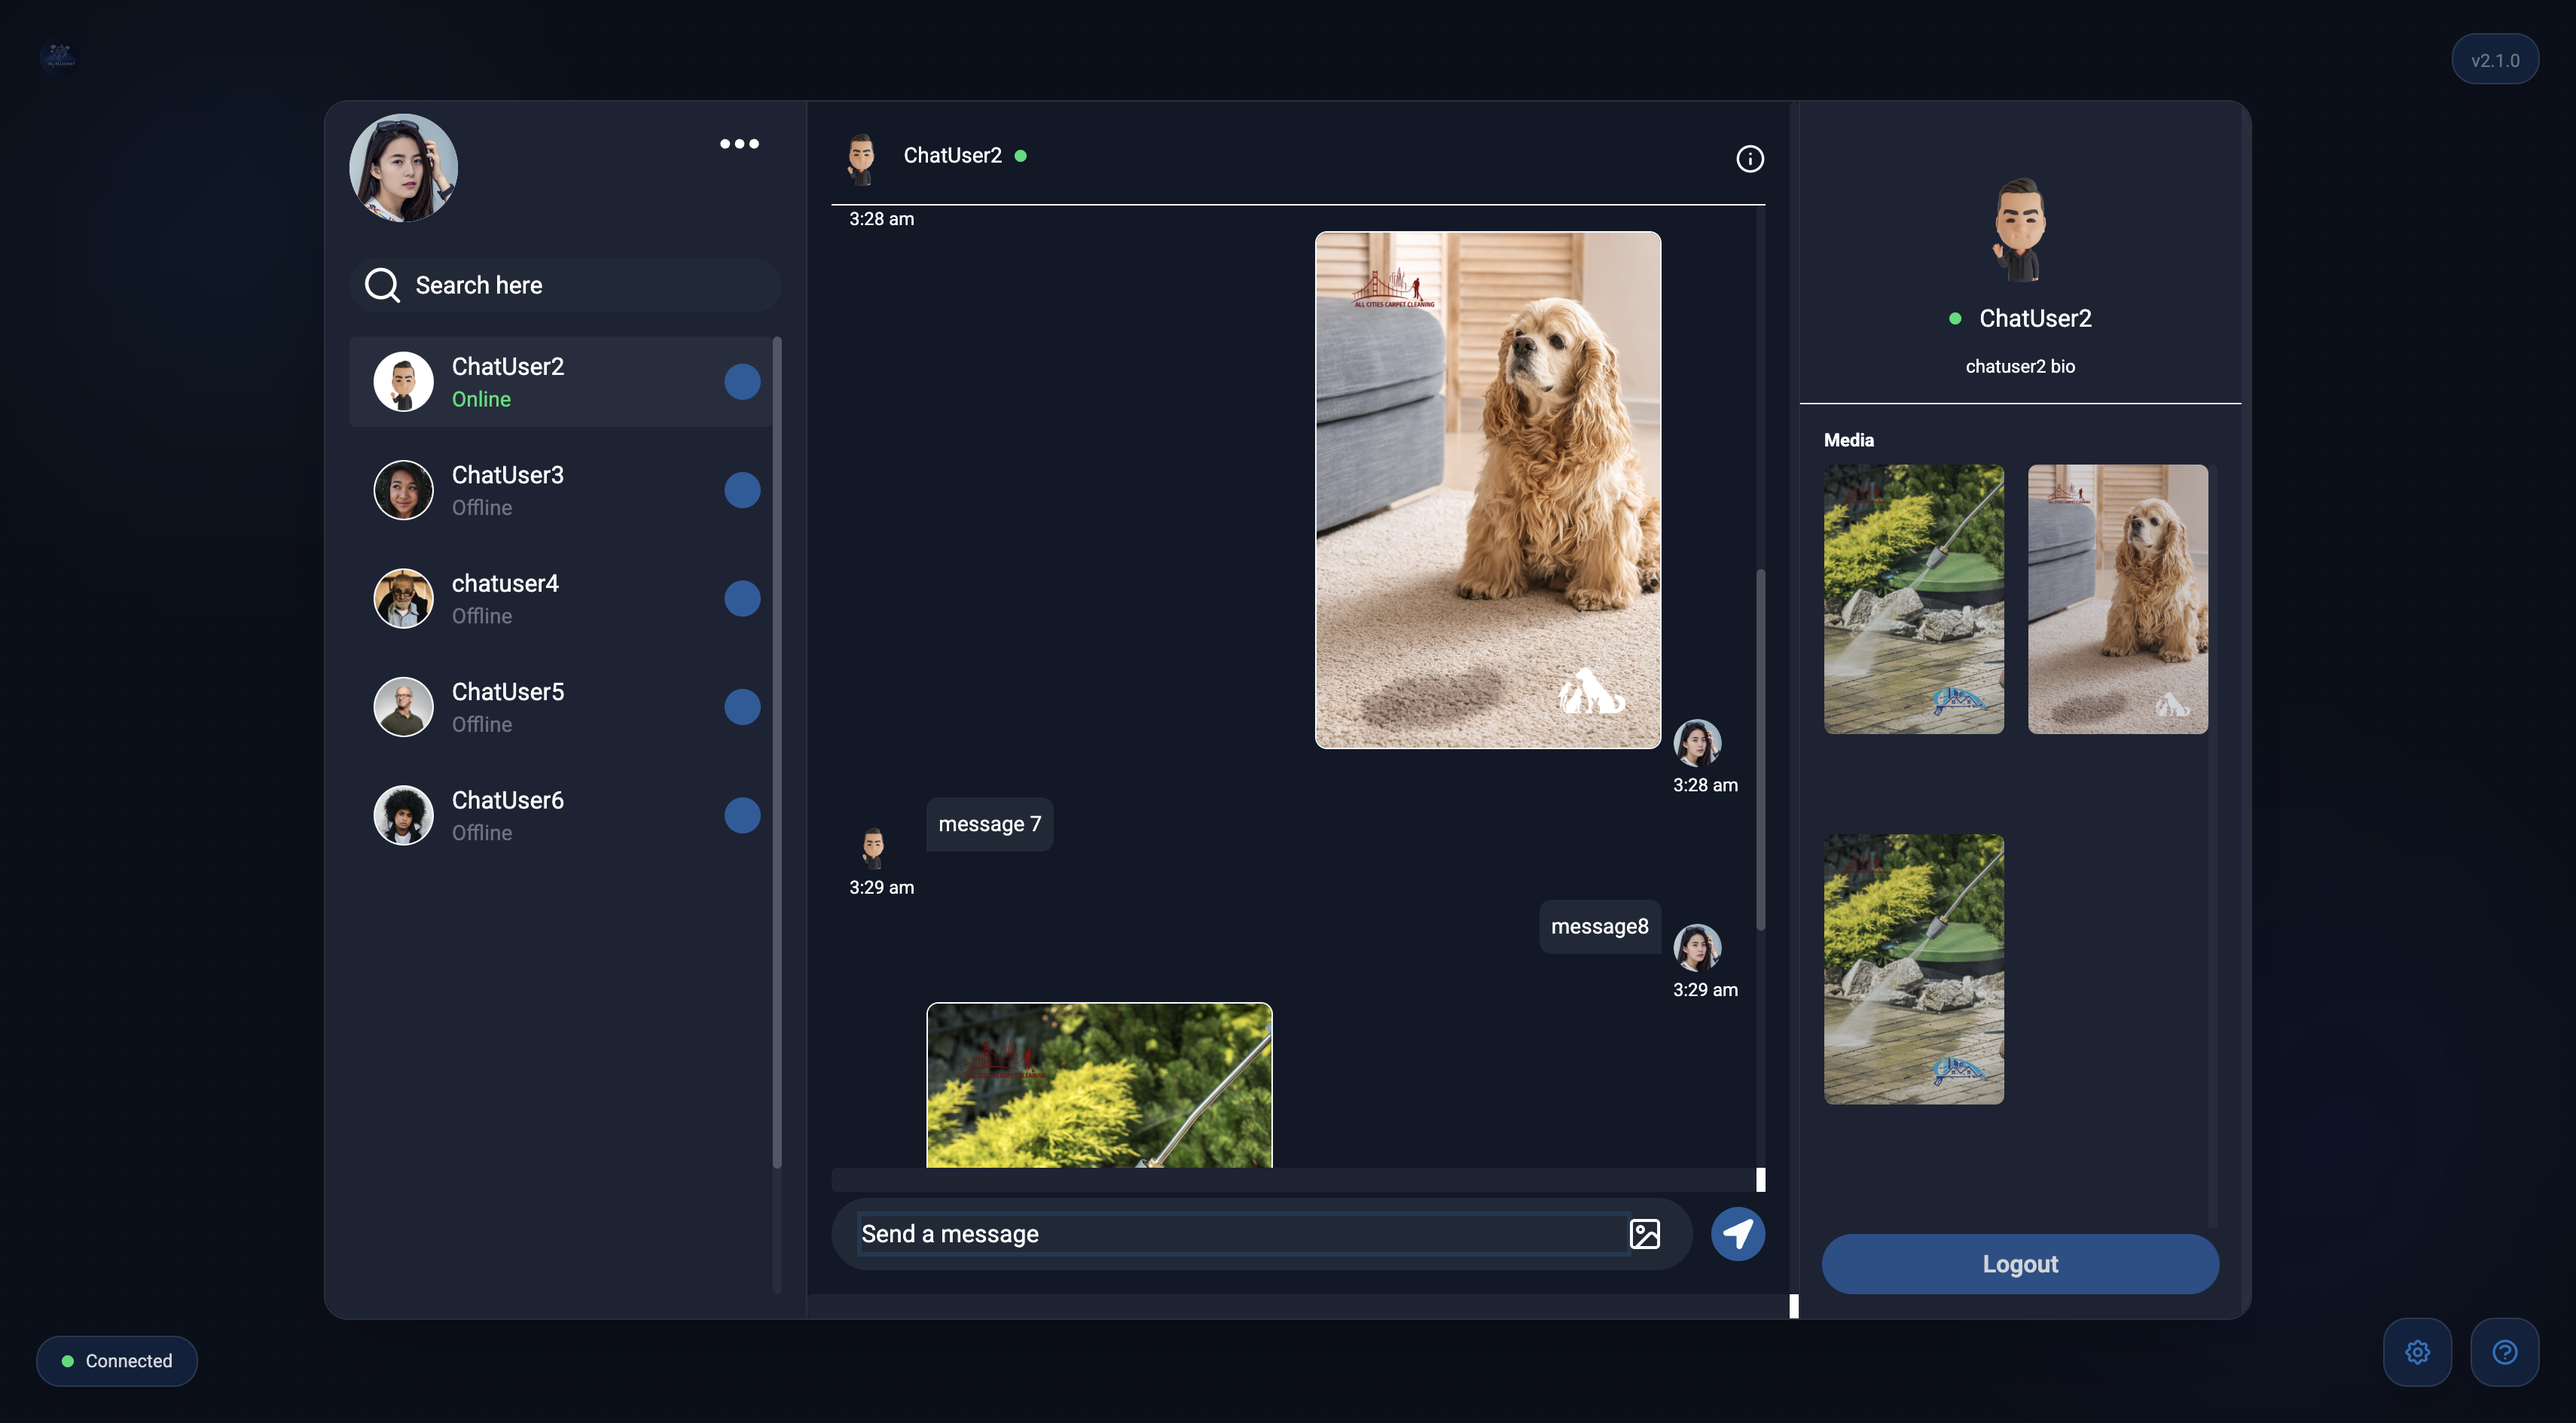
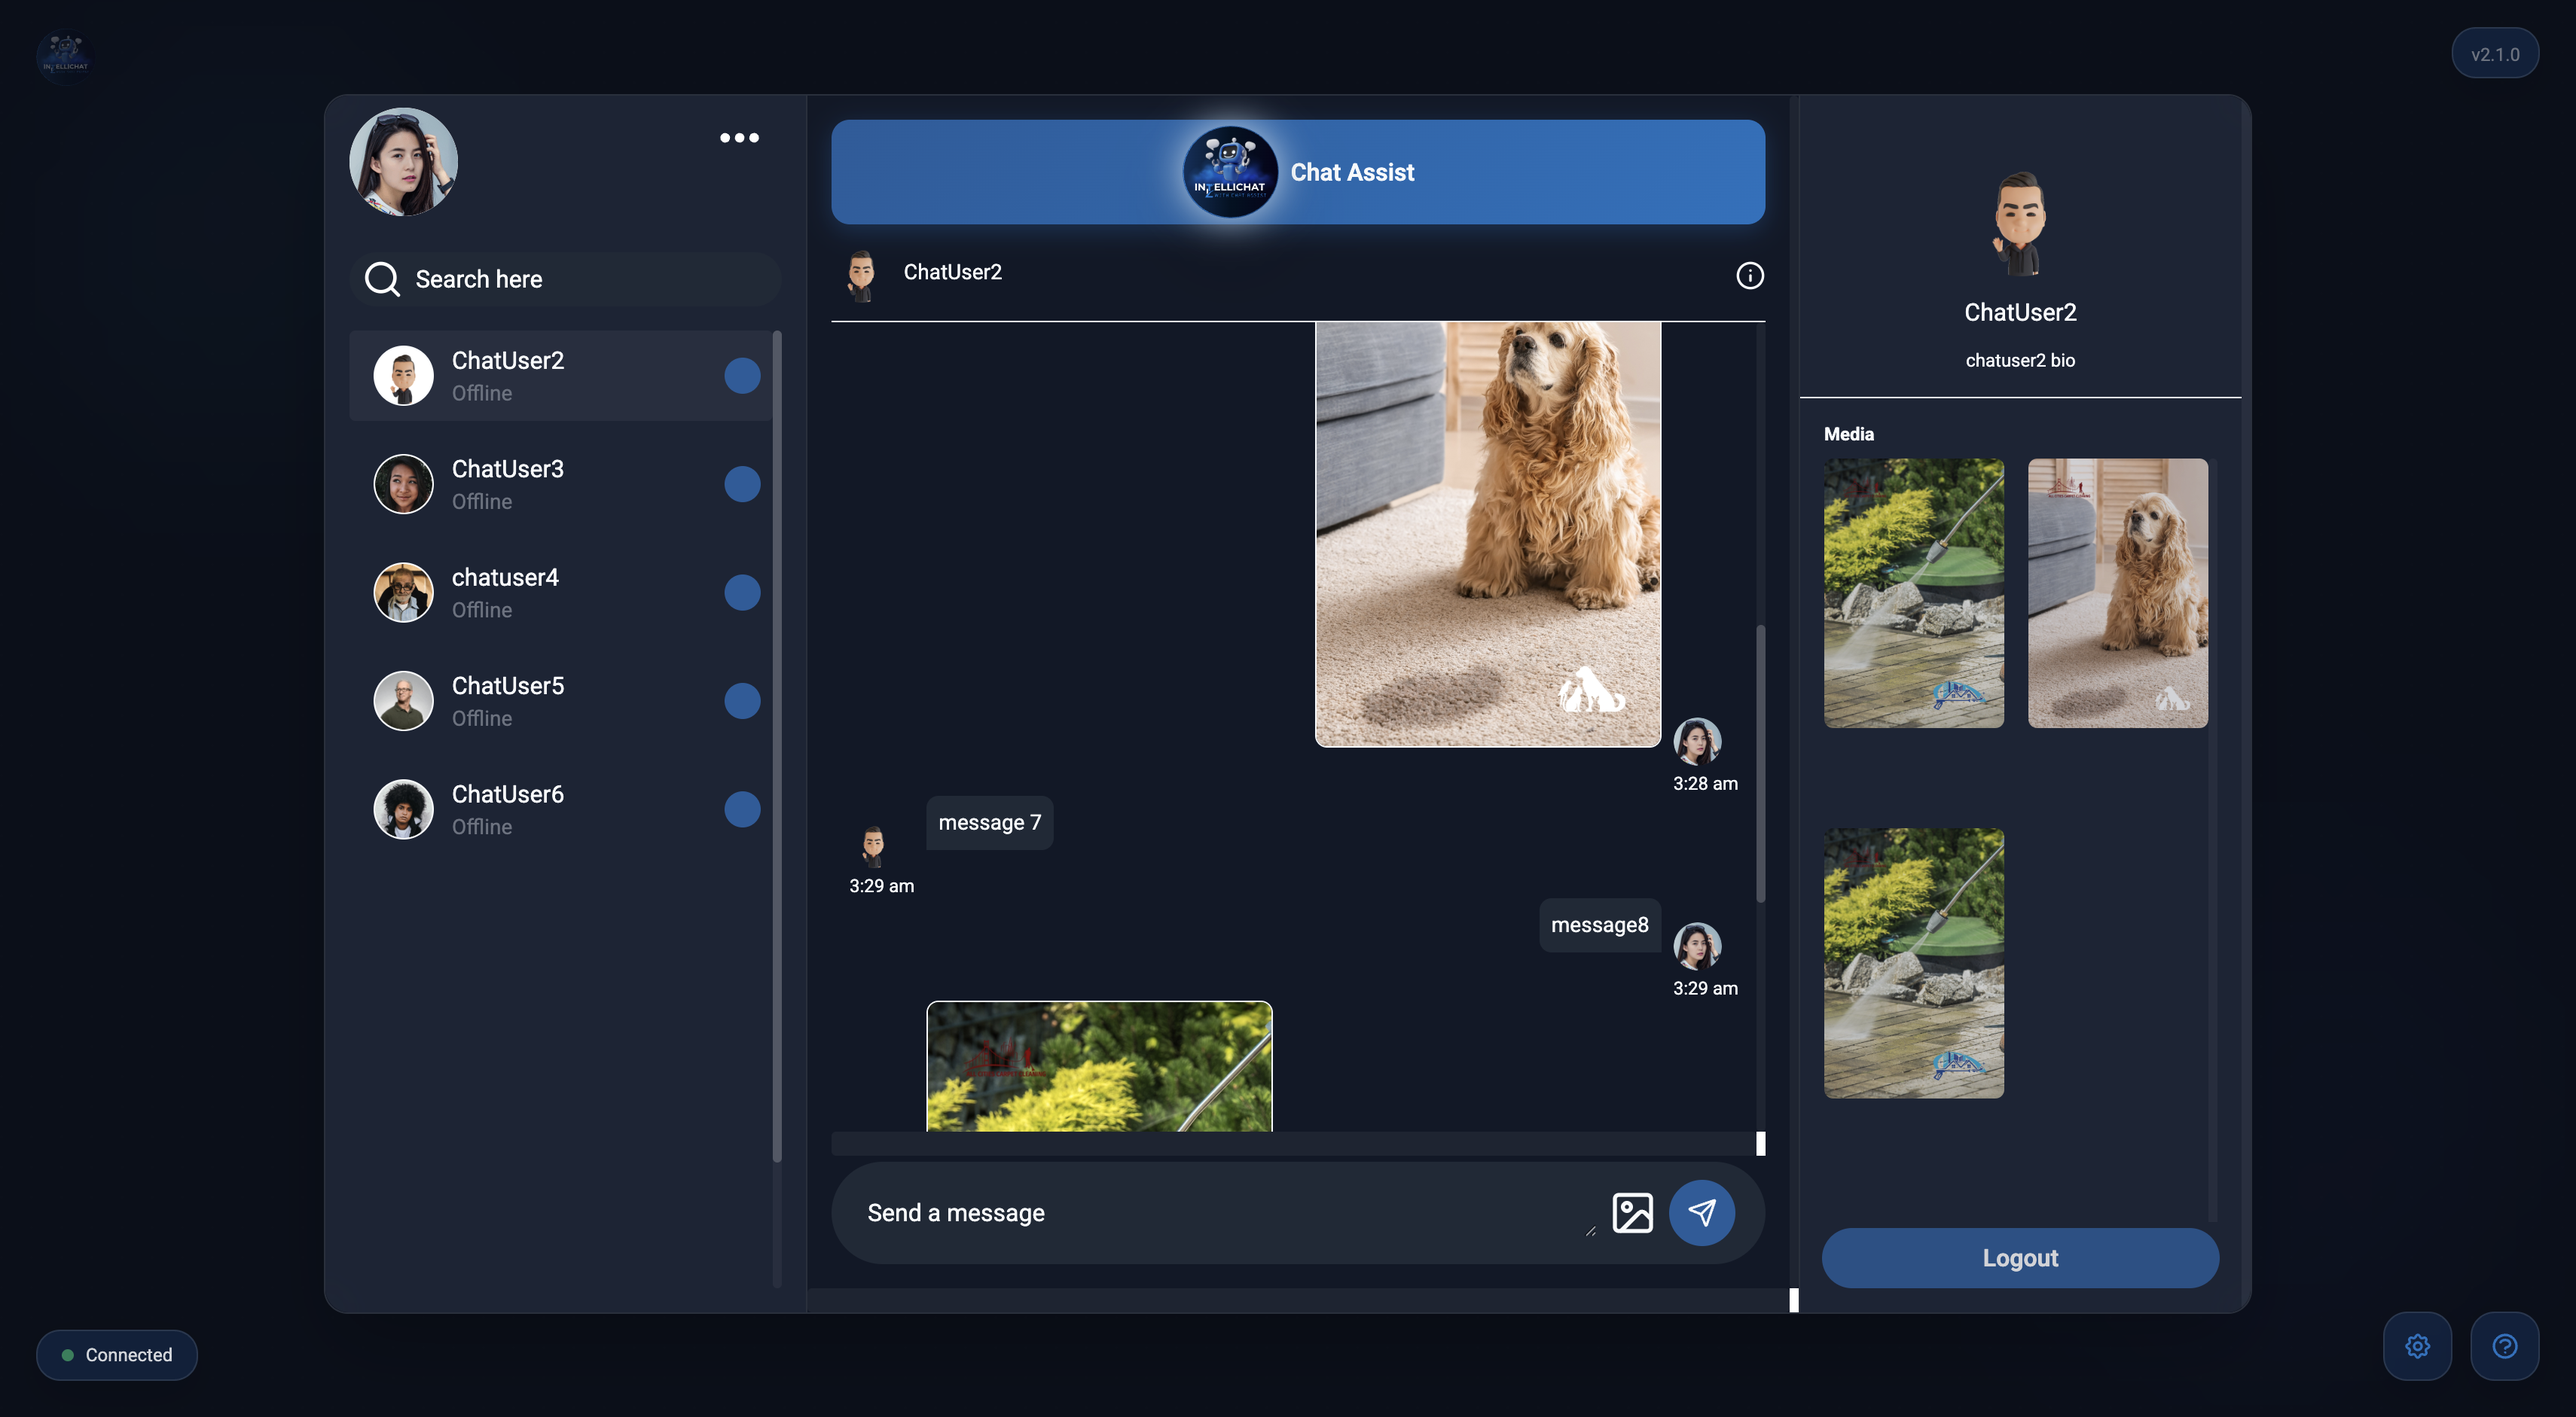
feature(frontend): add new project image - Added updated UI image for IntelliChat web app

diff --git a/src/data/index.ts b/src/data/index.ts
@@ -16,8 +16,8 @@ export const projects = [
   {
     id: 2,
     software: "React, SocketIO, MongoDB, JWT",
-    title: "IntelliChat Chat App",
-    des: "Learned Express, NextJS, SocketIO, ContextAPI, Models, UI, MongoDB, JWT Authentication",
+    title: "IntelliChat w/ AI Chat Assist",
+    des: "Learned Express, SocketIO, ContextAPI, Models, UI, MongoDB, JWT Authentication, AI Integration",
     img: "/chatapp.png",
     iconLists: ["/reactjs-logo.png", "/socket-io-svgrepo-com.svg", "/express-logo.png", "/MongoDB_Logomark_ForestGreen.svg", "/AdobeStock_JS3D.png", "/nodejs-logo.png"],
     link: "https://intellichat-frontend-d8rz.onrender.com",
